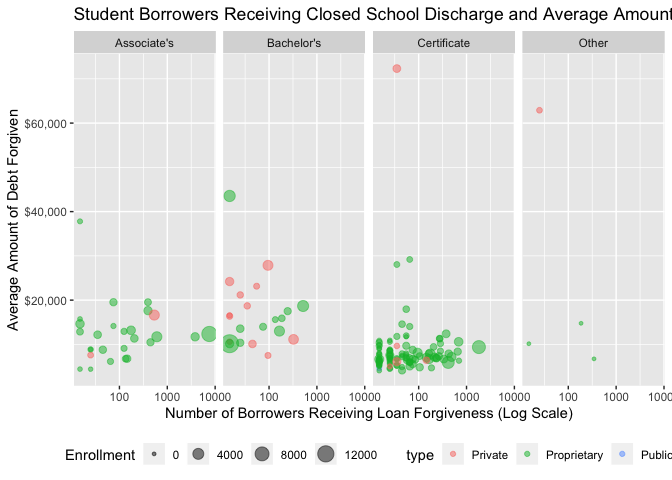
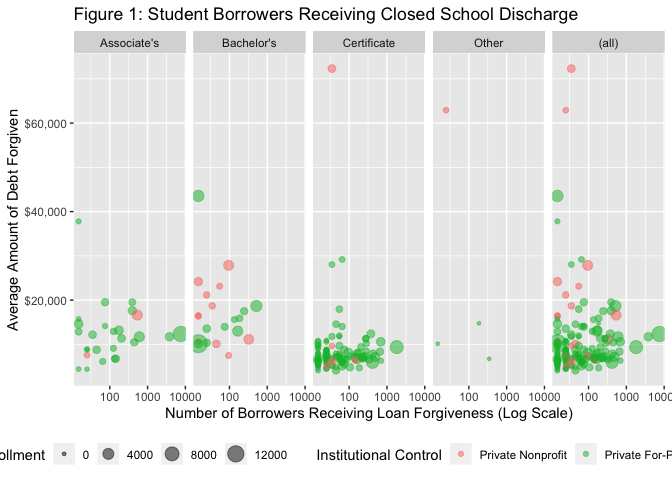
Organizing Files

diff --git a/README.md b/README.md
@@ -1,9 +1,26 @@
-    library(ggplot2)
-    closures_recent<-read.csv("~/Desktop/Stat 479/Final-Project/Data/closures_recent")
-
-    p<-ggplot(closures_recent, mapping=aes(x=discharged_borrowers, y=average_discharge)) 
-    p + geom_point(aes(color=type, size=Enrollment), alpha=0.5) + facet_grid(.~level2) + scale_x_log10() + scale_y_continuous(labels=scales::dollar)  + theme(legend.position = "bottom") +
-      guides(color = "legend") + labs(title="Student Borrowers Receiving Closed School Discharge and Average Amounts", x="Number of Borrowers Receiving Loan Forgiveness (Log Scale)", y="Average Amount of Debt Forgiven") +
-      scale_fill_discrete(name="Institutional Control",labels=c("Private Nonprofit", "Private For-Profit", "Public"))
-
 ![](README_files/figure-markdown_strict/unnamed-chunk-1-1.png)
+
+*Figure 1* uses data from the U.S. Department of Education’s Federal
+Student Aid Data Center to show the number of borrowers who received a
+student loan discharge in the event of an unexpected closure at their
+higher educaiton institution, along with the amount of debt forgiveness
+received per borrower.
+
+The school closure data is merged with infromation from the College
+Scorecard from the last year in which a school was operating.
+
+From this merged data, Figure 1 also displays selected characteristics
+about the institutions where those borrowers were enrolled.
+
+The figure shows that borrowers who received forgiveness were
+overwhelmingly enrolled in for-profit institutions, while a number of
+private non-profit institutions at the four-year level have also closed.
+
+Borrowers are also concentrated at institutions who primarily award
+Certificates, and these students typically receive smaller amounts of
+forigveness compared to those at institutions who primarily award
+Associate’s or Bachelor’s degrees.
+
+Because the number of borrowers in most cases is quite small but
+contians a few very high values, a log transformation on the x axis
+helps to better show the variation in the underlying data.
